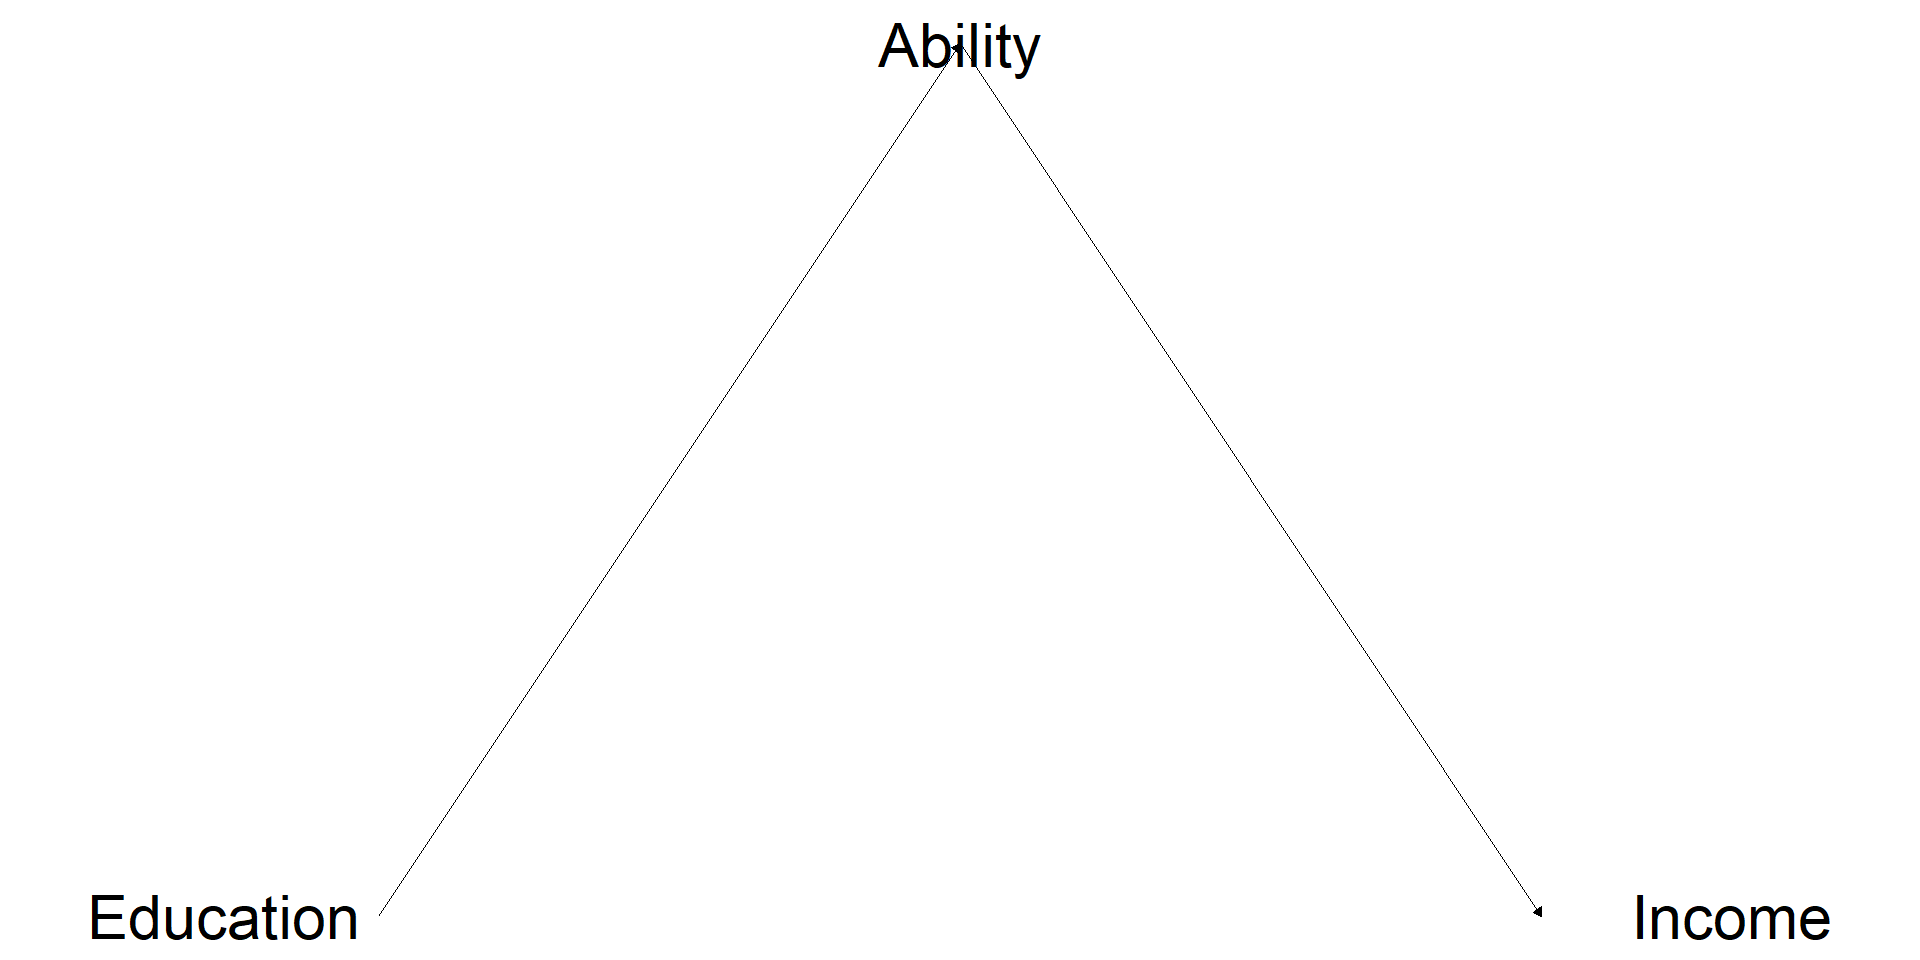
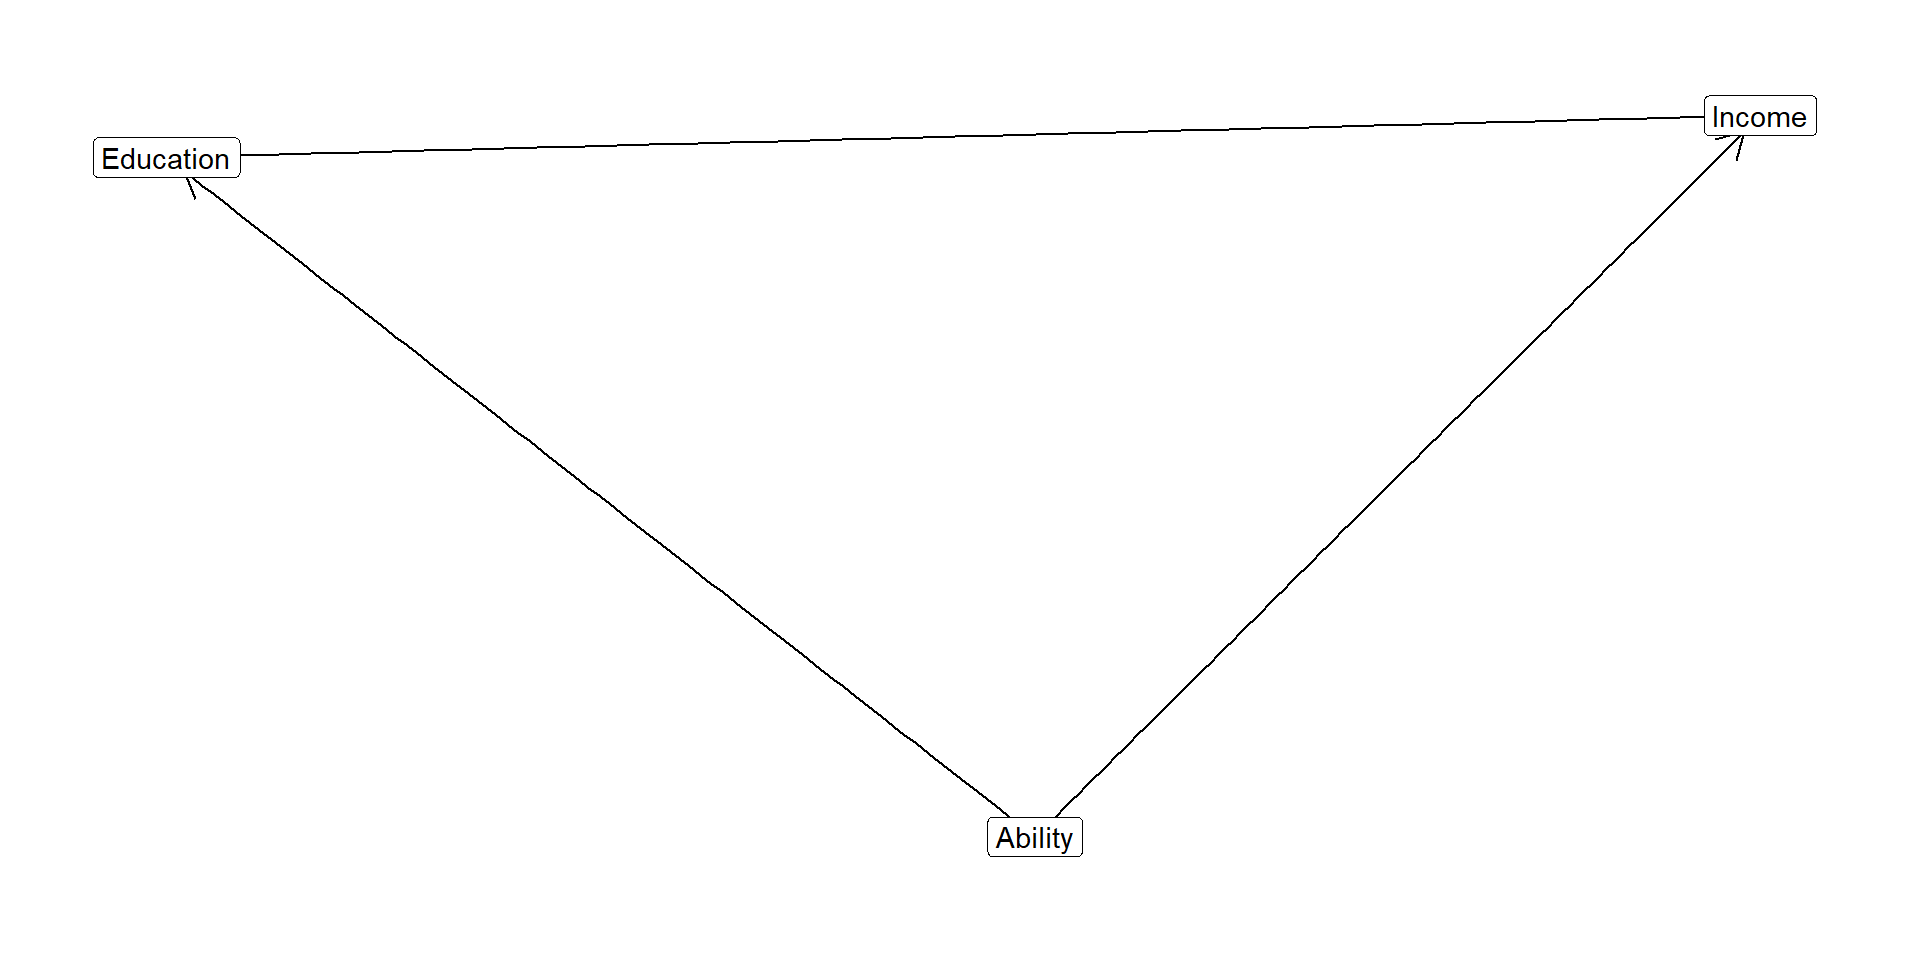
Update unnamed-chunk-2-1.png

diff --git a/assets/INFOMCIMPE/IV.html b/assets/INFOMCIMPE/IV.html
@@ -388,10 +388,6 @@
       margin-right: 0; 
     }
   </style>
-  <script src="IV_files/libs/htmlwidgets-1.6.4/htmlwidgets.js"></script>
-  <script src="IV_files/libs/viz-1.8.2/viz.js"></script>
-  <link href="IV_files/libs/DiagrammeR-styles-0.2/styles.css" rel="stylesheet">
-  <script src="IV_files/libs/grViz-binding-1.0.11/grViz.js"></script>
 </head>
 <body class="quarto-light">
   <div class="reveal">
@@ -537,22 +533,12 @@ Jacopo Mazza
 </section>
 <section id="the-path-to-wealth" class="slide level2" data-auto-animate="true">
 <h2 data-id="quarto-animate-title">The Path to Wealth</h2>
-<div class="cell">
-<div class="cell-output-display">
-<div class="grViz html-widget html-fill-item" id="htmlwidget-bcdb0df04e5c55fdb83f" style="width:960px;height:480px;"></div>
-<script type="application/json" data-for="htmlwidget-bcdb0df04e5c55fdb83f">{"x":{"diagram":"\ndigraph {\n    graph [rankdir = \"LR\"]  # Set direction from Left to Right\n    node [shape = plaintext]\n        Education  # Changed node A to Education\n        Income  # Changed node Y to Income\n    edge []\n        Education->Income  # Adjusted edge accordingly\n}\n","config":{"engine":"dot","options":null}},"evals":[],"jsHooks":[]}</script>
-</div>
-</div>
-</section>
+
+<img data-src="graphs/caus_path_1.png" class="r-stretch"></section>
 <section id="the-path-to-wealth-1" class="slide level2" data-auto-animate="true">
 <h2 data-id="quarto-animate-title">The Path to Wealth</h2>
-<div class="cell">
-<div class="cell-output-display">
-<div class="grViz html-widget html-fill-item" id="htmlwidget-96dabd023f0b89ed710a" style="width:960px;height:480px;"></div>
-<script type="application/json" data-for="htmlwidget-96dabd023f0b89ed710a">{"x":{"diagram":"\ndigraph {\n  graph []\n  node [shape = plaintext]\n    A [label = \"Education\"]\n    Y [label = \"Income\"]\n    C [label = \"Ability\"]\n  edge []\n    A->Y\n    C->A\n    C->Y\n  { rank = same; A; Y }\n}\n","config":{"engine":"dot","options":null}},"evals":[],"jsHooks":[]}</script>
-</div>
-</div>
-</section>
+
+<img data-src="graphs/caus_path_2.png" class="r-stretch"></section>
 <section id="unobservability" class="slide level2">
 <h2>UnobservABILITY</h2>
 <div style="font-size: 0.9em">
@@ -609,13 +595,8 @@ Jacopo Mazza
 </section>
 <section id="the-causal-path-to-wealth" class="slide level2">
 <h2>The <strong>Causal</strong> Path to Wealth</h2>
-<div class="cell">
-<div class="cell-output-display">
-<div class="grViz html-widget html-fill-item" id="htmlwidget-70b39b06097bd241d46b" style="width:960px;height:480px;"></div>
-<script type="application/json" data-for="htmlwidget-70b39b06097bd241d46b">{"x":{"diagram":"\ndigraph {\n  graph []\n  node [shape = plaintext]\n    A [label = \"Education\"]\n    Y [label = \"Income\"]\n    C [label = \"Ability\"]\n    B [label = \"Randomization\"]\n  edge []\n    A->Y\n    C->A\n    C->Y\n    B->A\n  { rank = same; A; Y; B }\n}\n","config":{"engine":"dot","options":null}},"evals":[],"jsHooks":[]}</script>
-</div>
-</div>
-</section>
+
+<img data-src="graphs/caus_path_3.png" class="r-stretch"></section>
 <section id="how-iv-estimation-works" class="slide level2">
 <h2>How IV Estimation Works</h2>
 <ul>
@@ -662,13 +643,8 @@ Jacopo Mazza
 <aside><ol class="aside-footnotes"><li id="fn2"><p><span class="fragment fragment-index-3">This is also called the <strong>exclusion restriction</strong></span></p></li></ol></aside></section>
 <section id="the-causal-path-to-wealth-1" class="slide level2">
 <h2>The <strong>Causal</strong> Path to Wealth</h2>
-<div class="cell">
-<div class="cell-output-display">
-<div class="grViz html-widget html-fill-item" id="htmlwidget-49161287b92d36616c13" style="width:960px;height:480px;"></div>
-<script type="application/json" data-for="htmlwidget-49161287b92d36616c13">{"x":{"diagram":"\ndigraph {\n  graph []\n  node [shape = plaintext]\n    A [label = \"Education\"]\n    Y [label = \"Income\"]\n    C [label = \"Ability\"]\n    B [label = \"Randomization\"]\n  edge []\n    A->Y\n    C->A\n    C->Y\n    B->A\n    B->Y [constraint = false, tailport = s, headport = s, color = red]\n  { rank = same; A; Y; B }\n}\n","config":{"engine":"dot","options":null}},"evals":[],"jsHooks":[]}</script>
-</div>
-</div>
-</section></section>
+
+<img data-src="graphs/caus_path_4.png" class="r-stretch"></section></section>
 <section>
 <section id="iv-application" class="title-slide slide level1 center" data-background-color="#107895">
 <h1>IV Application</h1>
@@ -1005,15 +981,15 @@ Jacopo Mazza
 </section>
 <section id="the-wald-estimator" class="slide level2">
 <h2>The Wald Estimator</h2>
-<div class="cell">
-<div class="cell-output-display">
-<div class="grViz html-widget html-fill-item" id="htmlwidget-4ea4e0ad4e88c340306e" style="width:70%;height:70%;"></div>
-<script type="application/json" data-for="htmlwidget-4ea4e0ad4e88c340306e">{"x":{"diagram":"\ndigraph {\n  graph []\n  node [shape = plaintext]\n    A [label = \"Education\n(X)\"]\n    Y [label = \"Income (Y)\"]\n    C [label = \"Ability\"]\n    B [label = \"Randomization (Z)\"]\n  edge []\n    A->Y [label=<&lambda;>]\n    C->A\n    C->Y\n    B->A [label=<&phi;>]\n    B->Y [constraint = false, tailport = s, headport = s, color = green]\n  { rank = same; A; Y; B }\n}\n","config":{"engine":"dot","options":null}},"evals":[],"jsHooks":[]}</script>
-</div>
-</div>
+<div class="columns">
+<div class="column" style="width:50%;">
+<p><img data-src="graphs/wald.png"></p>
+</div><div class="column" style="width:50%;">
 <p>[Effect of Z on Y] = [Effect of Z on D] * [Effect of D on Y]</p>
 <p><span class="math display">\[\rho=\phi\times\lambda\]</span> <span class="math display">\[\lambda=\frac{\rho}{\phi}=\frac{𝐸[𝑌_𝑖│𝑍_𝑖=1]−𝐸[𝑌_𝑖│𝑍_𝑖=0]}{𝐸[𝐷_𝑖│𝑍_𝑖=1]−𝐸[𝐷_𝑖│𝑍_𝑖=0]}
 \]</span></p>
+</div>
+</div>
 </section>
 <section id="two-stage-least-squares-2sls" class="slide level2">
 <h2>Two-Stage Least Squares (2SLS)</h2>
@@ -1414,12 +1390,7 @@ Wald test: 139.8 on 6 and 2996 DF,  p-value: &lt; 2.2e-16 </code></pre>
 </div>
 </div><div class="column" style="width:40%;">
 <div class="fragment" data-fragment-index="2">
-<div class="cell">
-<div class="cell-output-display">
-<div class="grViz html-widget html-fill-item" id="htmlwidget-e452ce81acf838c9777b" style="width:90%;height:90%;"></div>
-<script type="application/json" data-for="htmlwidget-e452ce81acf838c9777b">{"x":{"diagram":"\ndigraph decision_tree {\n\n  # Define the root node\n  node [shape = circle, color = lightblue]\n  A [label = \"Randomization\"]\n\n  # Define the two branches\n  node [shape = circle, color = lightcoral]\n  B [label = \"Assigned\"]\n  C [label = \"Not\nAssigned\"]\n\n  # Connect the nodes with edges\n  edge [color = black]\n  A -> B \n  A -> C \n}\n","config":{"engine":"dot","options":null}},"evals":[],"jsHooks":[]}</script>
-</div>
-</div>
+<p><img data-src="graphs/decision_tree-1.png"></p>
 </div>
 </div>
 </div>
@@ -1429,7 +1400,7 @@ Wald test: 139.8 on 6 and 2996 DF,  p-value: &lt; 2.2e-16 </code></pre>
 <div class="columns">
 <div class="column" style="width:60%;">
 <ul>
-<li>If participation in the treatment is voluntary: People can:</li>
+<li>If participation in the treatment is voluntary people can:</li>
 </ul>
 <div class="fragment" data-fragment-index="1">
 <ul>
@@ -1458,36 +1429,16 @@ Wald test: 139.8 on 6 and 2996 DF,  p-value: &lt; 2.2e-16 </code></pre>
 </div>
 </div><div class="column" style="width:40%;">
 <div class="fragment absolute" data-fragment-index="1" style="top: 50px; right: 0px; ">
-<div class="cell">
-<div class="cell-output-display">
-<div class="grViz html-widget html-fill-item" id="htmlwidget-ec4b04312b50eb9f1883" style="width:60%;height:60%;"></div>
-<script type="application/json" data-for="htmlwidget-ec4b04312b50eb9f1883">{"x":{"diagram":"\ndigraph decision_tree {\n\n  # Define the root node\n  node [shape = circle, color = lightblue]\n  A [label = \"Randomization\"]\n\n  # Define the two branches\n  node [shape = circle, color = lightcoral]\n  B [label = \"Assigned\"]\n  C [label = \"Not\nAssigned\"]\n\n  # Define the outcomes\n  node [shape = circle, color = green]\n  D [label = \"Compliers\"]\n\n  # Connect the nodes with edges\n  edge [color = black]\n  A -> B \n  A -> C \n  B -> D [label = \"Takes\nTreatment\"]\n}\n","config":{"engine":"dot","options":null}},"evals":[],"jsHooks":[]}</script>
+<p><img data-src="graphs/decision_tree_2.png"></p>
 </div>
+<div class="fragment absolute" data-fragment-index="3" style="top: 50px; right: 0px; width: 500px; height: 450px; ">
+<p><img data-src="graphs/decision_tree_3.png"></p>
 </div>
+<div class="fragment absolute" data-fragment-index="5" style="top: 60px; right: 0px; width: 450px; height: 450px; ">
+<p><img data-src="graphs/decision_tree_4.png"></p>
 </div>
-<div class="fragment absolute" data-fragment-index="3" style="top: 50px; right: 0px; ">
-<div class="cell">
-<div class="cell-output-display">
-<div class="grViz html-widget html-fill-item" id="htmlwidget-f198305041a133a8bd45" style="width:70%;height:70%;"></div>
-<script type="application/json" data-for="htmlwidget-f198305041a133a8bd45">{"x":{"diagram":"\ndigraph decision_tree {\n\n  # Define the root node\n  node [shape = circle, color = lightblue]\n  A [label = \"Randomization\"]\n\n  # Define the two branches\n  node [shape = circle, color = lightcoral]\n  B [label = \"Assigned\"]\n  C [label = \"Not\nAssigned\"]\n\n  # Define the outcomes\n  node [shape = circle, color = green]\n  D [label = \"Compliers\"]\n  G [label = \"Compliers\"]\n\n  # Connect the nodes with edges\n  edge [color = black]\n  A -> B \n  A -> C \n  B -> D [label = \"Takes\nTreatment\"]\n  C -> G [label = \"Does not take\nTreatment\"]\n}\n","config":{"engine":"dot","options":null}},"evals":[],"jsHooks":[]}</script>
-</div>
-</div>
-</div>
-<div class="fragment absolute" data-fragment-index="5" style="top: 50px; right: 0px; ">
-<div class="cell">
-<div class="cell-output-display">
-<div class="grViz html-widget html-fill-item" id="htmlwidget-17401b789196acf99207" style="width:100%;height:115%;"></div>
-<script type="application/json" data-for="htmlwidget-17401b789196acf99207">{"x":{"diagram":"\ndigraph decision_tree {\n\n  # Define the root node\n  node [shape = circle, color = lightblue]\n  A [label = \"Randomization\"]\n\n  # Define the two branches\n  node [shape = circle, color = lightcoral]\n  B [label = \"Assigned\"]\n  C [label = \"Not\nAssigned\"]\n\n  # Define the outcomes\n  node [shape = circle, color = green]\n  D [label = \"Compliers\"]\n  F [label = \"Always\ntakers\"]\n  G [label = \"Compliers\"]\n\n  # Connect the nodes with edges\n  edge [color = black]\n  A -> B \n  A -> C \n  B -> D [label = \"Takes\nTreatment\"]\n  C -> F [label = \"Takes\nTreatment\"]\n  C -> G [label = \"Does not take\nTreatment\"]\n}\n","config":{"engine":"dot","options":null}},"evals":[],"jsHooks":[]}</script>
-</div>
-</div>
-</div>
-<div class="fragment absolute" data-fragment-index="7" style="top: 50px; right: 0px; width: 450px; height: 300px; ">
-<div class="cell">
-<div class="cell-output-display">
-<div class="grViz html-widget html-fill-item" id="htmlwidget-332175d871562226449f" style="width:100%;height:100%;"></div>
-<script type="application/json" data-for="htmlwidget-332175d871562226449f">{"x":{"diagram":"\ndigraph decision_tree {\n\n  # Define the root node\n  node [shape = circle, color = lightblue]\n  A [label = \"Randomization\"]\n\n  # Define the two branches\n  node [shape = circle, color = lightcoral]\n  B [label = \"Assigned\"]\n  C [label = \"Not\nAssigned\"]\n\n  # Define the outcomes\n  node [shape = circle, color = green]\n  D [label = \"Compliers\"]\n  E [label = \"Never\ntakers\"]\n  F [label = \"Always\ntakers\"]\n  G [label = \"Compliers\"]\n\n  # Connect the nodes with edges\n  edge [color = black]\n  A -> B \n  A -> C \n  B -> D [label = \"Takes\nTreatment\"]\n  B -> E [label = \"Does not take\nTreatment\"]\n  C -> F [label = \"Takes\nTreatment\"]\n  C -> G [label = \"Does not take\nTreatment\"]\n}\n","config":{"engine":"dot","options":null}},"evals":[],"jsHooks":[]}</script>
-</div>
-</div>
+<div class="fragment absolute" data-fragment-index="7" style="top: -50px; right: 0px; width: 550px; height: 950px; ">
+<p><img data-src="graphs/decision_tree_5.png"></p>
 </div>
 </div>
 </div>
